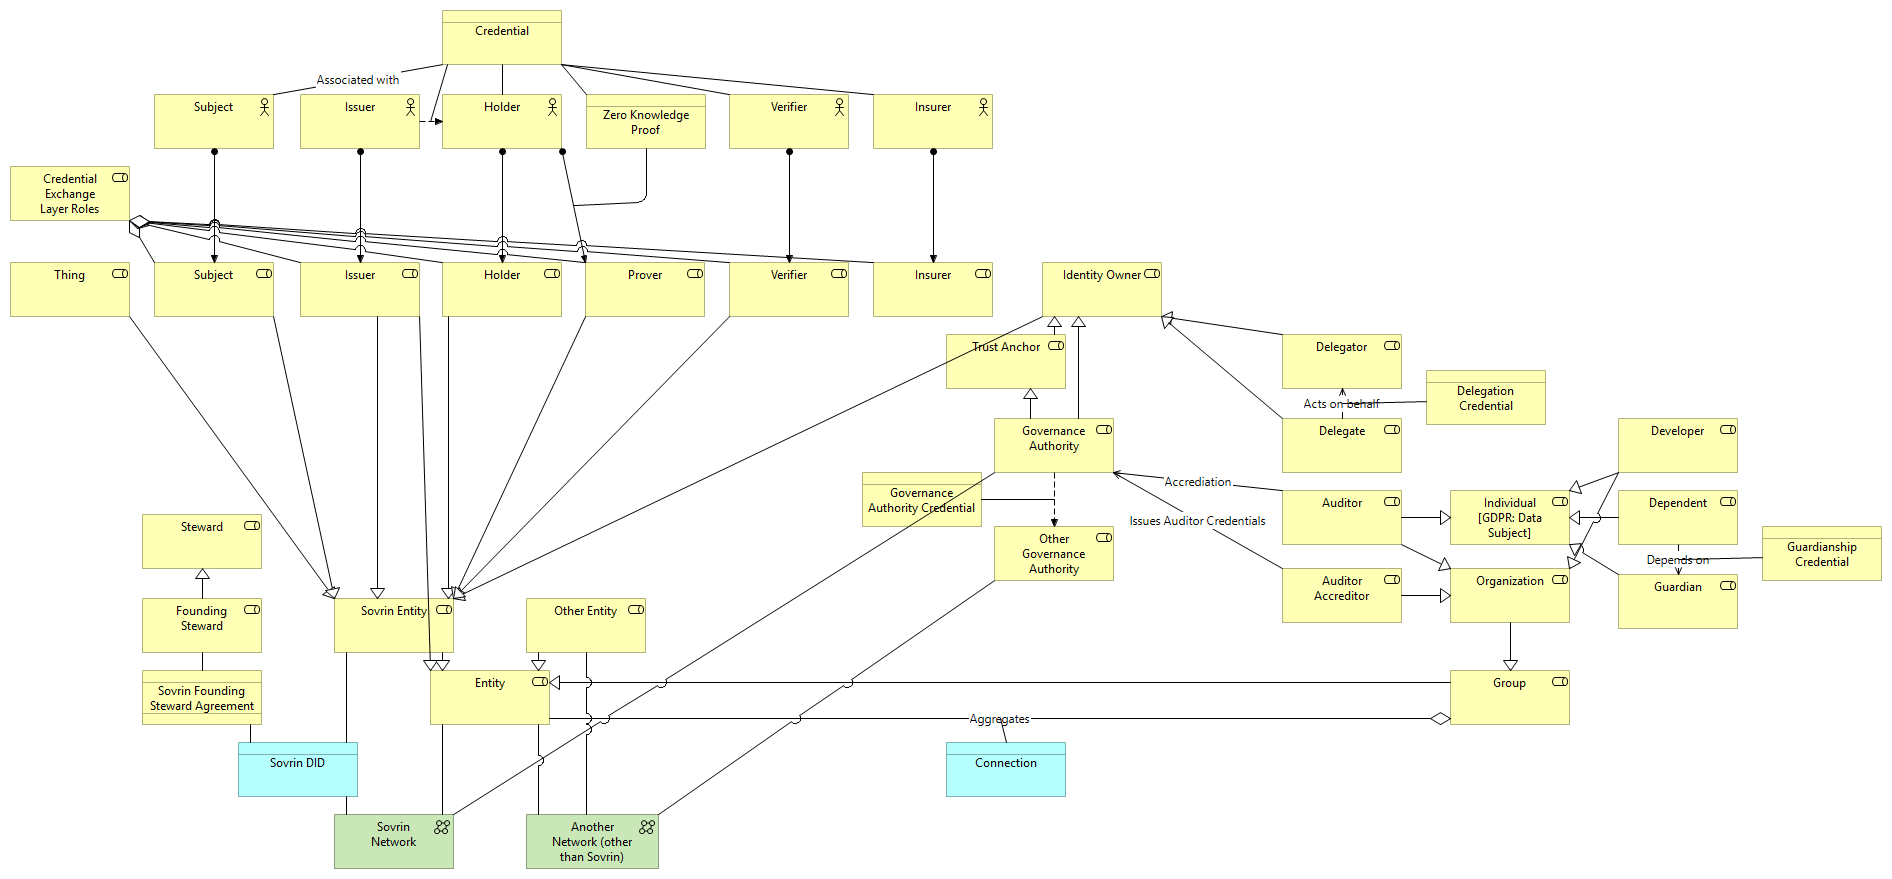
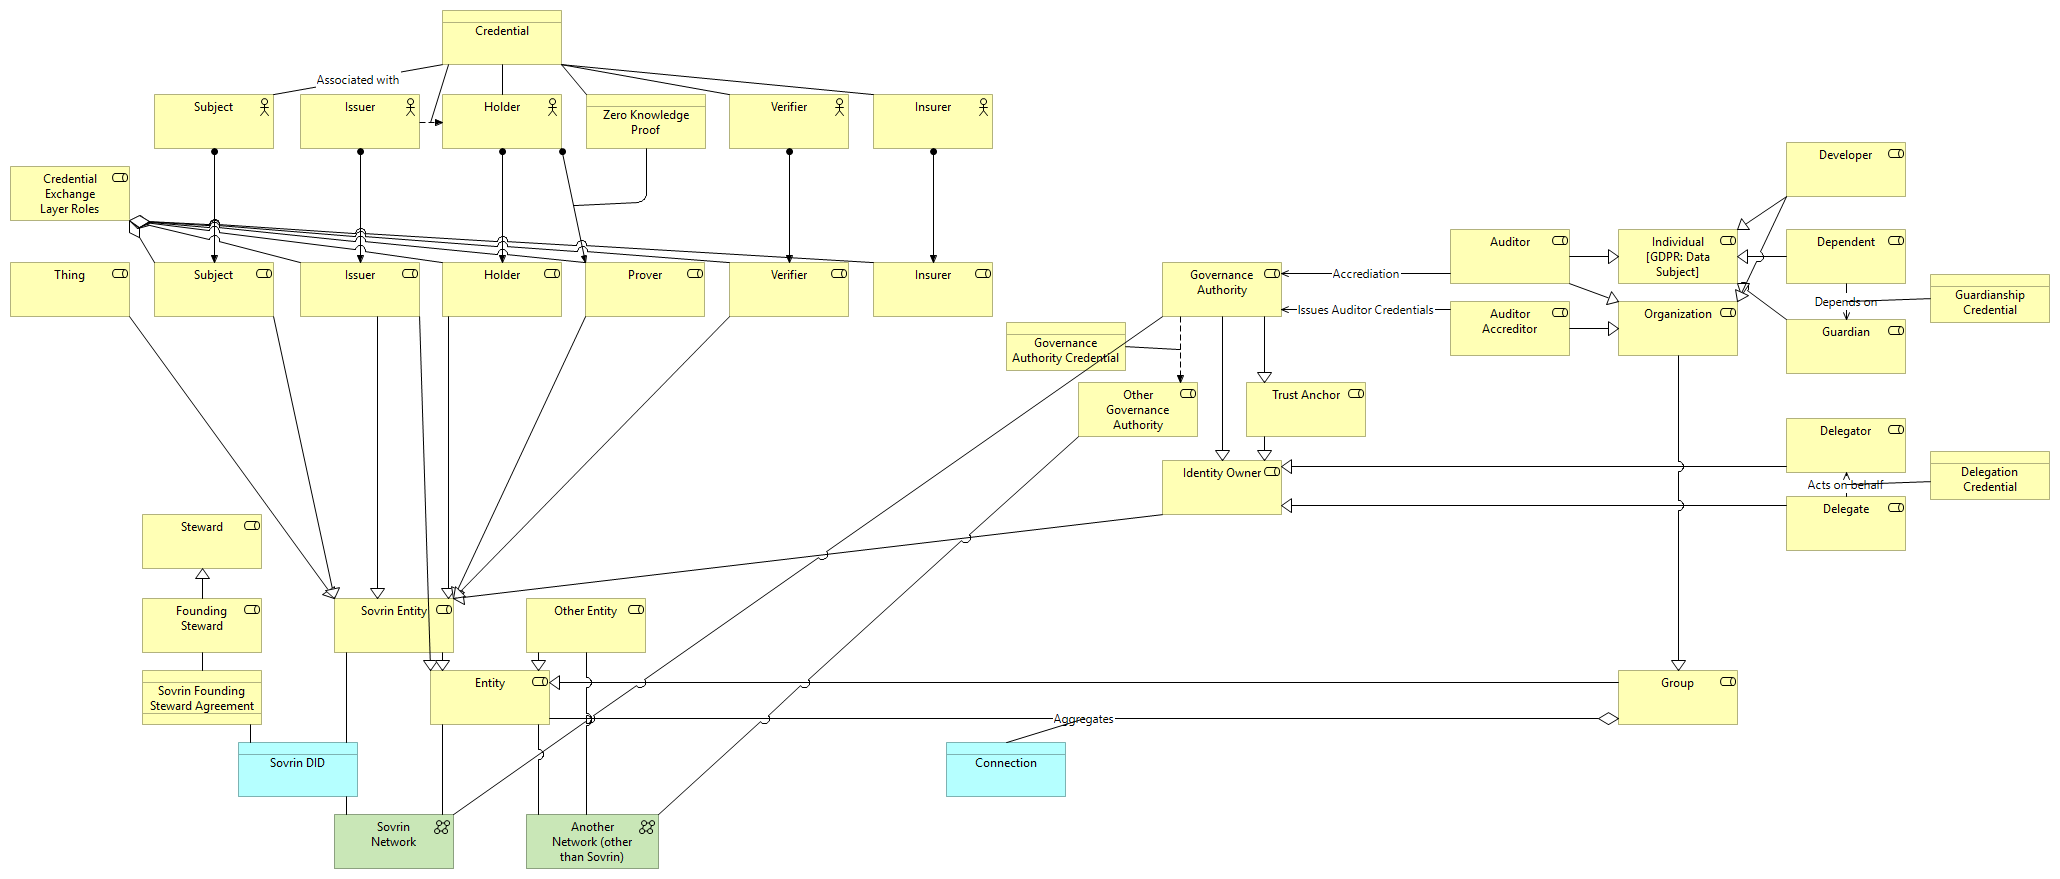
Updates

diff --git a/README.md b/README.md
@@ -3,11 +3,11 @@
 _Draft document for discussion purposes_
 
 
-## Sovrin Glossary: Roles Viewpoint
+## Sovrin Glossary: Roles Taxonomy Viewpoint
 
 ![HBB-Sovrin-Glossary-Roles-Viewpoint](images/HBB-Sovrin-Glossary-Roles-Viewpoint.png)
 
-Figure 1. Sovrin Glossary: Roles Viewpoint (work in progress)
+Figure 1. Sovrin Glossary: Roles Taxonomy Viewpoint (work in progress)
 
 _To be continued..._
 
